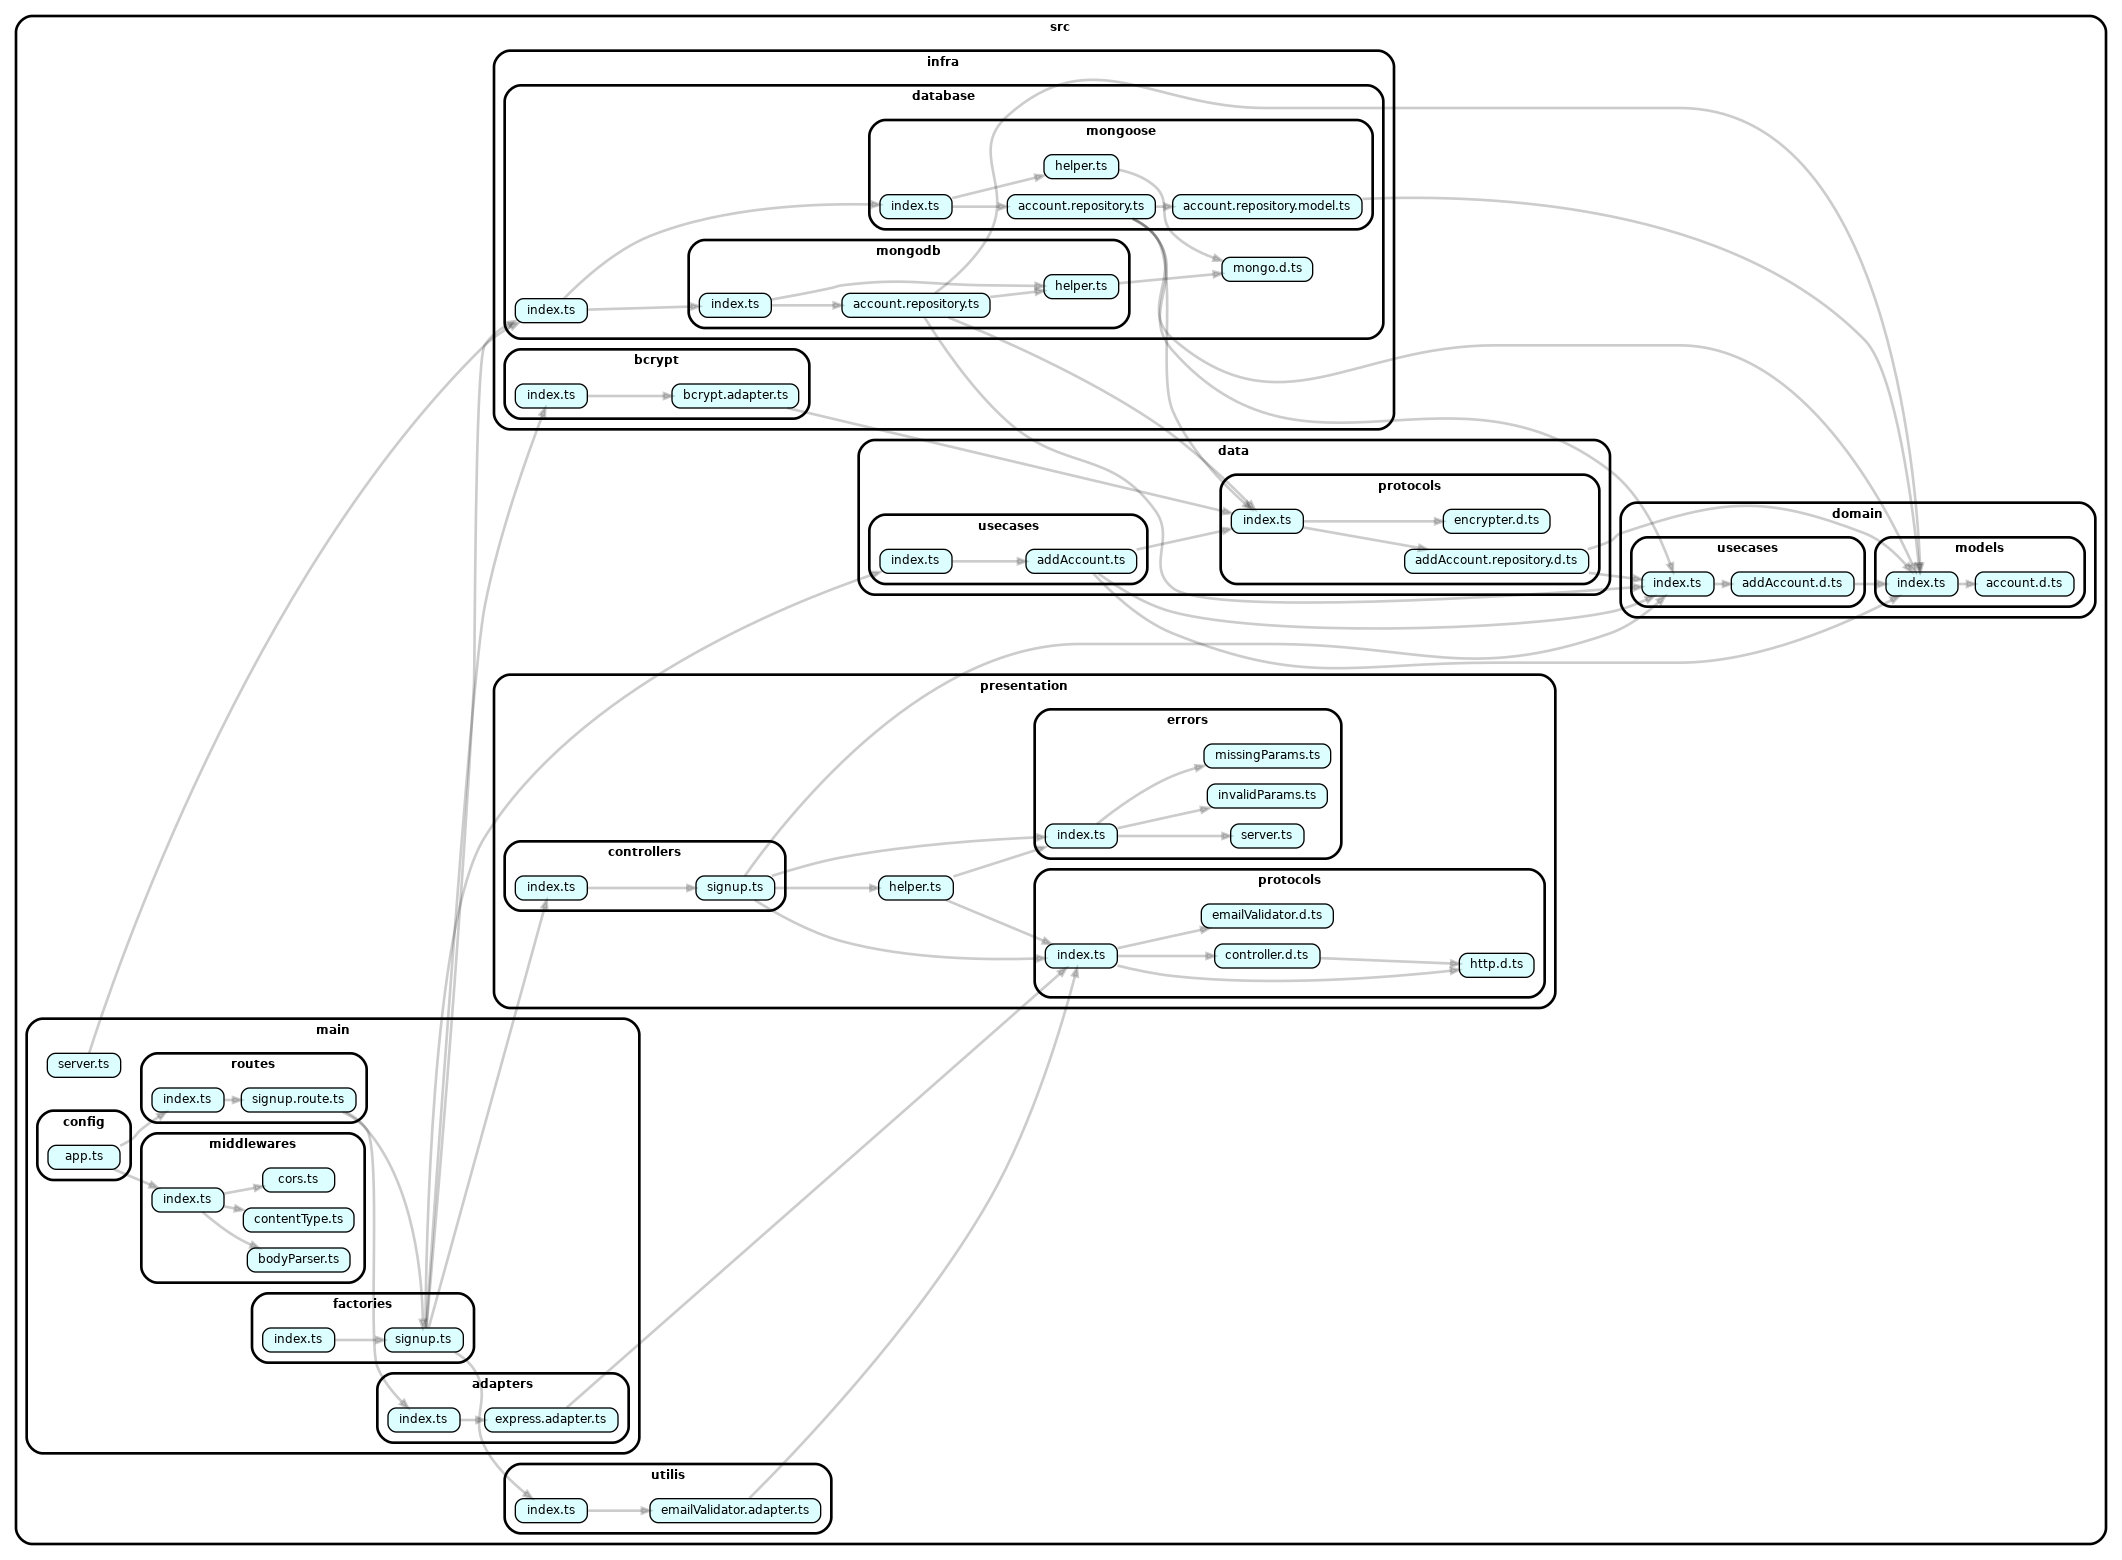
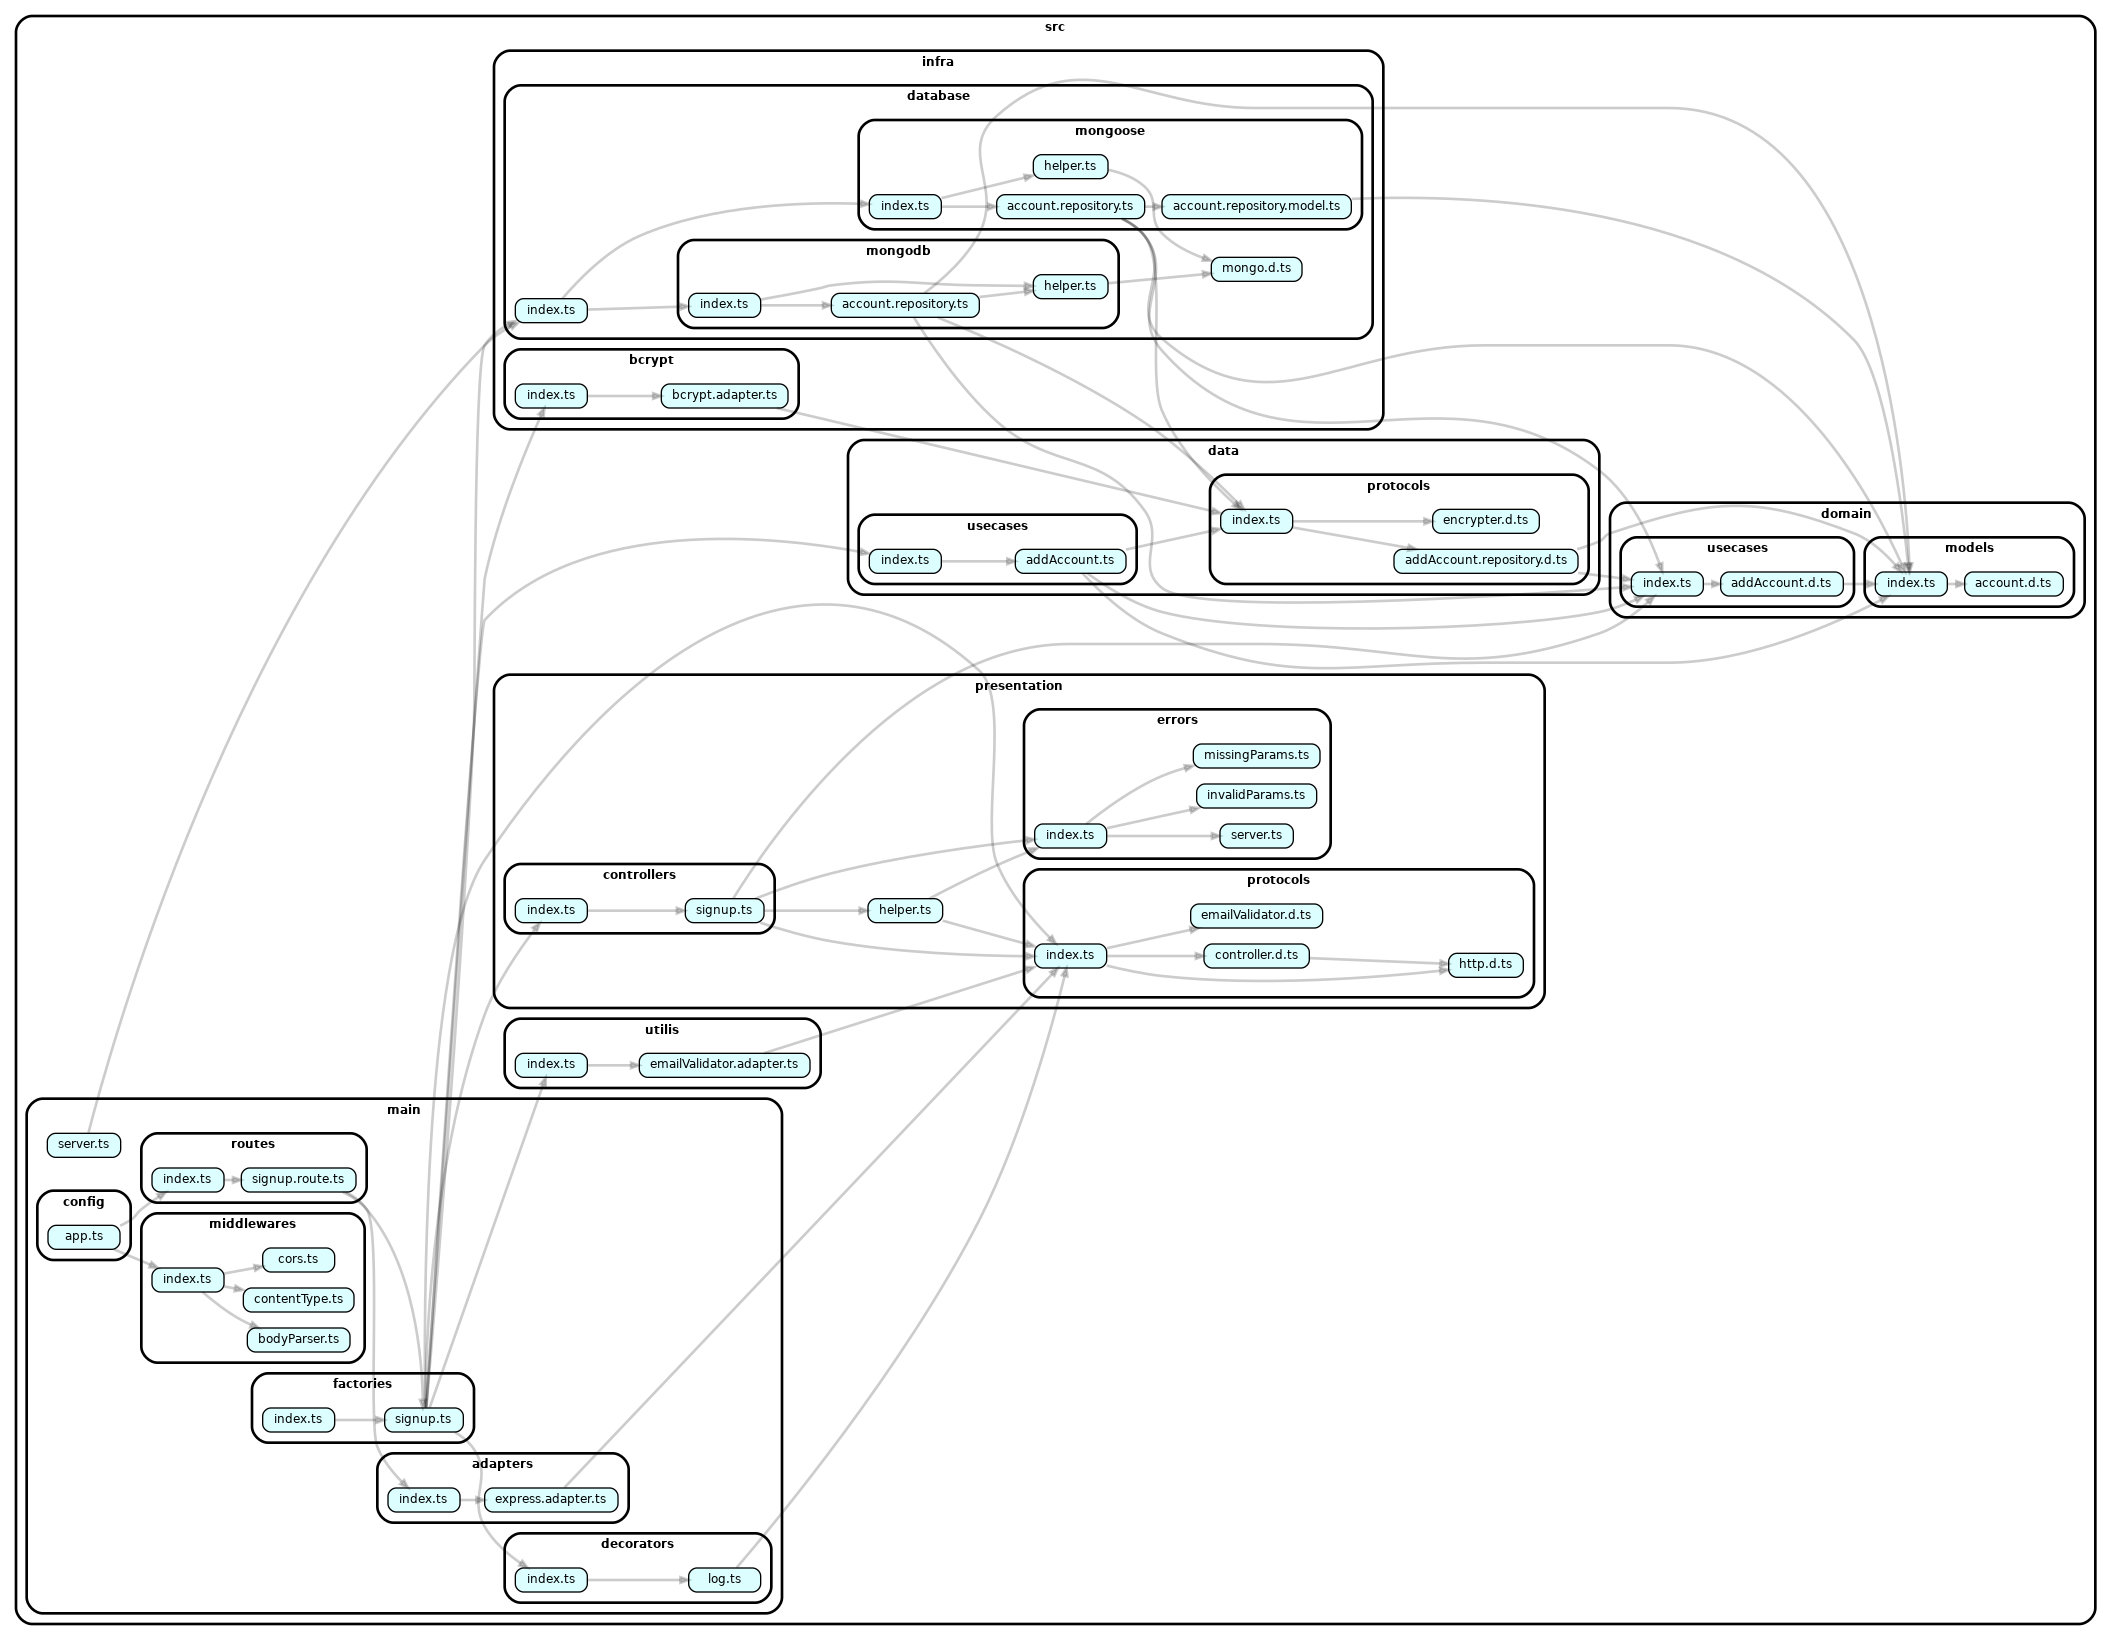
feat: ensure LogControllerDecorator with correct value

diff --git a/src/main/decorators/log.spec.ts b/src/main/decorators/log.spec.ts
@@ -1,0 +1,33 @@
+import { IController, IHttpRequest, IHttpResponse } from '../../presentation/protocols'
+import { LogControllerDecorator } from './log'
+
+class SignUpControllerMock implements IController {
+  async handle (httprequest: IHttpRequest): Promise<IHttpResponse> {
+    const httpResponse: IHttpResponse = {
+      statusCode: 200,
+      body: {
+        name: 'ramzi'
+      }
+    }
+
+    return await Promise.resolve(httpResponse)
+  }
+}
+
+describe('LogController Decorator', () => {
+  test('Should call controller handle', async () => {
+    const signUpController = new SignUpControllerMock()
+    const handleSpy = jest.spyOn(signUpController, 'handle')
+    const signUpControllerWithLog = new LogControllerDecorator(signUpController)
+    const httpRequest: IHttpRequest = {
+      body: {
+        email: 'mail@mail.com',
+        name: 'name',
+        password: 'password',
+        passwordConfirmation: 'password'
+      }
+    }
+    await signUpControllerWithLog.handle(httpRequest)
+    expect(handleSpy).toHaveBeenCalledWith(httpRequest)
+  })
+})

diff --git a/src/main/factories/signup.ts b/src/main/factories/signup.ts
@@ -2,13 +2,16 @@ import { AddAccount } from '../../data/usecases'
 import { BcryptAdapter } from '../../infra/bcrypt'
 import { AccountMongoRepository } from '../../infra/database'
 import { SignUpController } from '../../presentation/controllers'
+import { IController } from '../../presentation/protocols'
 import { EmailValidatorAdapter } from '../../utilis'
+import { LogControllerDecorator } from '../decorators'
 
-export const makeSignupController = (): SignUpController => {
+export const makeSignupController = (): IController => {
   const salt = 12
   const emailValidatorAdapter = new EmailValidatorAdapter()
   const bcryptAdaptor = new BcryptAdapter(salt)
   const accountMongoRepository = new AccountMongoRepository()
   const addAccount = new AddAccount(bcryptAdaptor, accountMongoRepository)
-  return new SignUpController(emailValidatorAdapter, addAccount)
+  const signUpController = new SignUpController(emailValidatorAdapter, addAccount)
+  return new LogControllerDecorator(signUpController)
 }

diff --git a/src/main/decorators/log.ts b/src/main/decorators/log.ts
@@ -1,0 +1,17 @@
+
+import { IController, IHttpRequest, IHttpResponse } from '../../presentation/protocols'
+
+export class LogControllerDecorator implements IController {
+  private readonly controller
+  constructor (controller: IController) {
+    this.controller = controller
+  }
+
+  async handle (httprequest: IHttpRequest): Promise<IHttpResponse> {
+    const httpResponse = await this.controller.handle(httprequest)
+    if (httpResponse.statusCode === 500) {
+      // TODO log
+    }
+    return httpResponse
+  }
+}

diff --git a/src/main/decorators/index.ts b/src/main/decorators/index.ts
@@ -1,0 +1,1 @@
+export * from './log'
